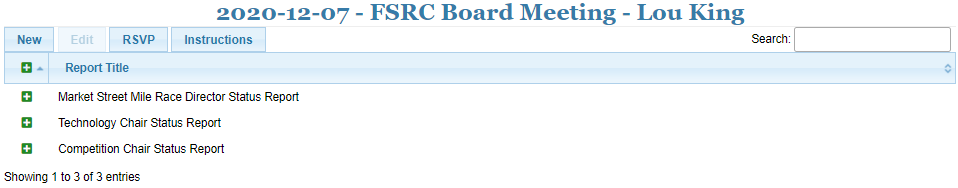
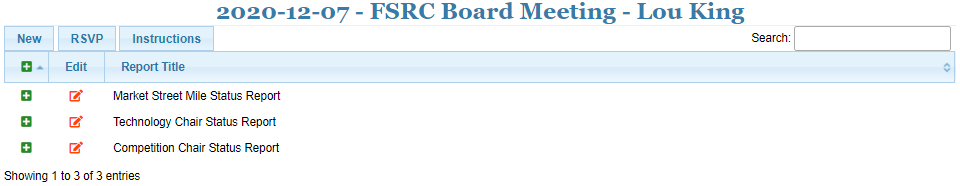
My Status Report view: documentation for ui changes - edit button, "modal" box
* https://github.com/louking/members/issues/300

diff --git a/members/static/admin/beforedatatables.js b/members/static/admin/beforedatatables.js
@@ -530,7 +530,7 @@ function mystatus_create(e, dt, node, config) {
     var show_editor = function() {
         dt.editor()
             .title('Add ad hoc status report')
-            .buttons('Save')
+            .buttons('Create')
             .create();
     }
     var missing_reports = [];

diff --git a/members/views/admin/meetings_member.py b/members/views/admin/meetings_member.py
@@ -617,24 +617,27 @@ class MemberStatusReportView(MemberStatusReportBase):
                       href='https://members.readthedocs.io/en/latest/meetings-member-guide.html#'
                            + slugify('My Status Report view'),
                       target='_blank')
-                p(strong('NOTE:'))
+                p(strong('NOTES:'))
                 with ol():
                     with li():
-                        text('to view the contents of a row, use ')
-                        i(_class='fa fa-plus', style='background-color: forestgreen; color: white;')
+                        text('to ')
+                        i('view')
+                        text(' a status report, click on ')
+                        i(_class='fa fa-plus', style='background-color: forestgreen; color: white; padding: 2px; '
+                                                     'font-size: 60%;')
                         text(' to expand, ')
-                        i(_class='fa fa-minus', style='background-color: deepskyblue; color: white;')
+                        i(_class='fa fa-minus', style='background-color: deepskyblue; color: white; padding: 2px; '
+                                                     'font-size: 60%;')
                         text(' to collapse')
                     with li():
-                        text('to edit a row, first select the row by clicking on the text to the right of ')
-                        i(_class='fa fa-plus', style='background-color: forestgreen; color: white;')
-                        text(' or ')
-                        i(_class='fa fa-minus', style='background-color: deepskyblue; color: white;')
-                        text(' under Report Title, then click the ')
-                        strong('Edit')
-                        text(' button at the top of the table')
-
-
+                        text('to ')
+                        i('edit')
+                        text(' a status report, click on ')
+                        i(_class='fas fa-edit', style='color: orangered;')
+                    with li():
+                        text('if the edit button is displayed as ')
+                        i(_class='fas fa-edit', style='color: forestgreen;')
+                        text(' this means the status report has been entered -- it can still be edited, though')
 
             div(id='mystatus_button_error', style='display: none;')
 

diff --git a/docs/meetings-member-guide.rst b/docs/meetings-member-guide.rst
@@ -79,12 +79,15 @@ You will see a table similar to the following, with a button for your :term:`RSV
     :align: center
 
 .. important::
-    * to *view* the contents of a row, use |icon-expand| to expand, |icon-collapse| to collapse
-    * to *edit* a row, first select the row by clicking on the text to the right of |icon-expand| or |icon-collapse|
-      under **Report Title**, then click the **Edit** button at the top of the table
+    * to *view* a status report, click on |icon-expand| to expand, |icon-collapse| to collapse
+    * to *edit* a status report, click on |icon-edit-orangered|
+    * if the edit button is displayed as |icon-edit-forestgreen| this means the status report has been
+      entered -- it can still be edited, though
 
 .. |icon-expand| image:: images/icon-expand.*
 .. |icon-collapse| image:: images/icon-collapse.*
+.. |icon-edit-orangered| image:: images/icon-edit-orangered.*
+.. |icon-edit-forestgreen| image:: images/icon-edit-forestgreen.*
 
 RSVP for the meeting
 ------------------------
@@ -106,8 +109,8 @@ Update your status report(s)
 --------------------------------
 Now you can enter your :term:`status report(s) <status report>`.
 
-* select the row for the :term:`status report` you want to enter
-* click **Edit** at the top of the table
+* on the row for the :term:`status report` you want to enter, click the edit button ( |icon-edit-orangered| or
+  |icon-edit-forestgreen|)
 
 This opens an Edit form for this :term:`status report`:
 
@@ -118,10 +121,12 @@ This opens an Edit form for this :term:`status report`:
 * click **Save**
 
 .. note::
-    :term:`Status reports <status report>` are by :term:`position`. So if there is more than one :term:`member` in the
+    :term:`Status reports <status report>` are by :term:`position`. So if there are more than one :term:`member` in the
     same :term:`position`, they will see the same :term:`status report` for that :term:`position`. If one :term:`member`
-    edits the report the other :term:`member(s) <member>` will be able to see the edits when they open the
-    :term:`position` row. So if the position is shared, there needs to be coordination for producing the
+    edits the report the other :term:`member(s) <member>` will be able to see those edits when they open the
+    :term:`position` row.
+
+    So if the position is shared, there needs to be coordination for producing the
     :term:`status report`.
 
 .. _add discussion item:
@@ -131,12 +136,11 @@ Optionally add discussion items for the meeting
 If a topic needs to be discussed at the meeting, a :term:`discussion item` must be created. This adds the topic
 to the :term:`meeting` :term:`agenda`.
 
-* select the row for the :term:`status report` you want to enter a :term:`discussion item` about
-* click **Edit** at the top of the table
+* click |icon-edit-forestgreen| for the :term:`status report` you want to enter a :term:`discussion item` about
 
 This opens an Edit form for this :term:`status report`:
 
-.. image:: images/my-status-report-edit-status.*
+.. image:: images/my-status-report-edit-status-filled.*
     :align: center
 
 * under **Discussion Items**, click **New**
@@ -153,8 +157,7 @@ This opens a Create form for the :term:`discussion item`:
 
 You can edit the discussion item up until the meeting.
 
-* select the row for the :term:`status report` which holds the :term:`discussion item`
-* click **Edit** at the top of the table
+* click |icon-edit-forestgreen| for the :term:`status report` which holds the :term:`discussion item`
 * under **Discussion Items**, select the :term:`discussion item` to be edited
 * under **Discussion Items**, click **Edit**
 * make the desired edits to **Discussion Details**
@@ -196,8 +199,7 @@ at the challenge, you will see a form to add an ad hoc :term:`status report`:
 If an item about this report needs to be added to the :term:`meeting` :term:`agenda`, create a
 :term:`discussion item`.
 
-* select the new :term:`status report` you just created
-* above the Status Report table, click **Edit**
+* click |icon-edit-forestgreen| for the new ad hoc :term:`status report` you just created
 * add the :term:`discussion item` as described in :ref:`add discussion item`
 
 
